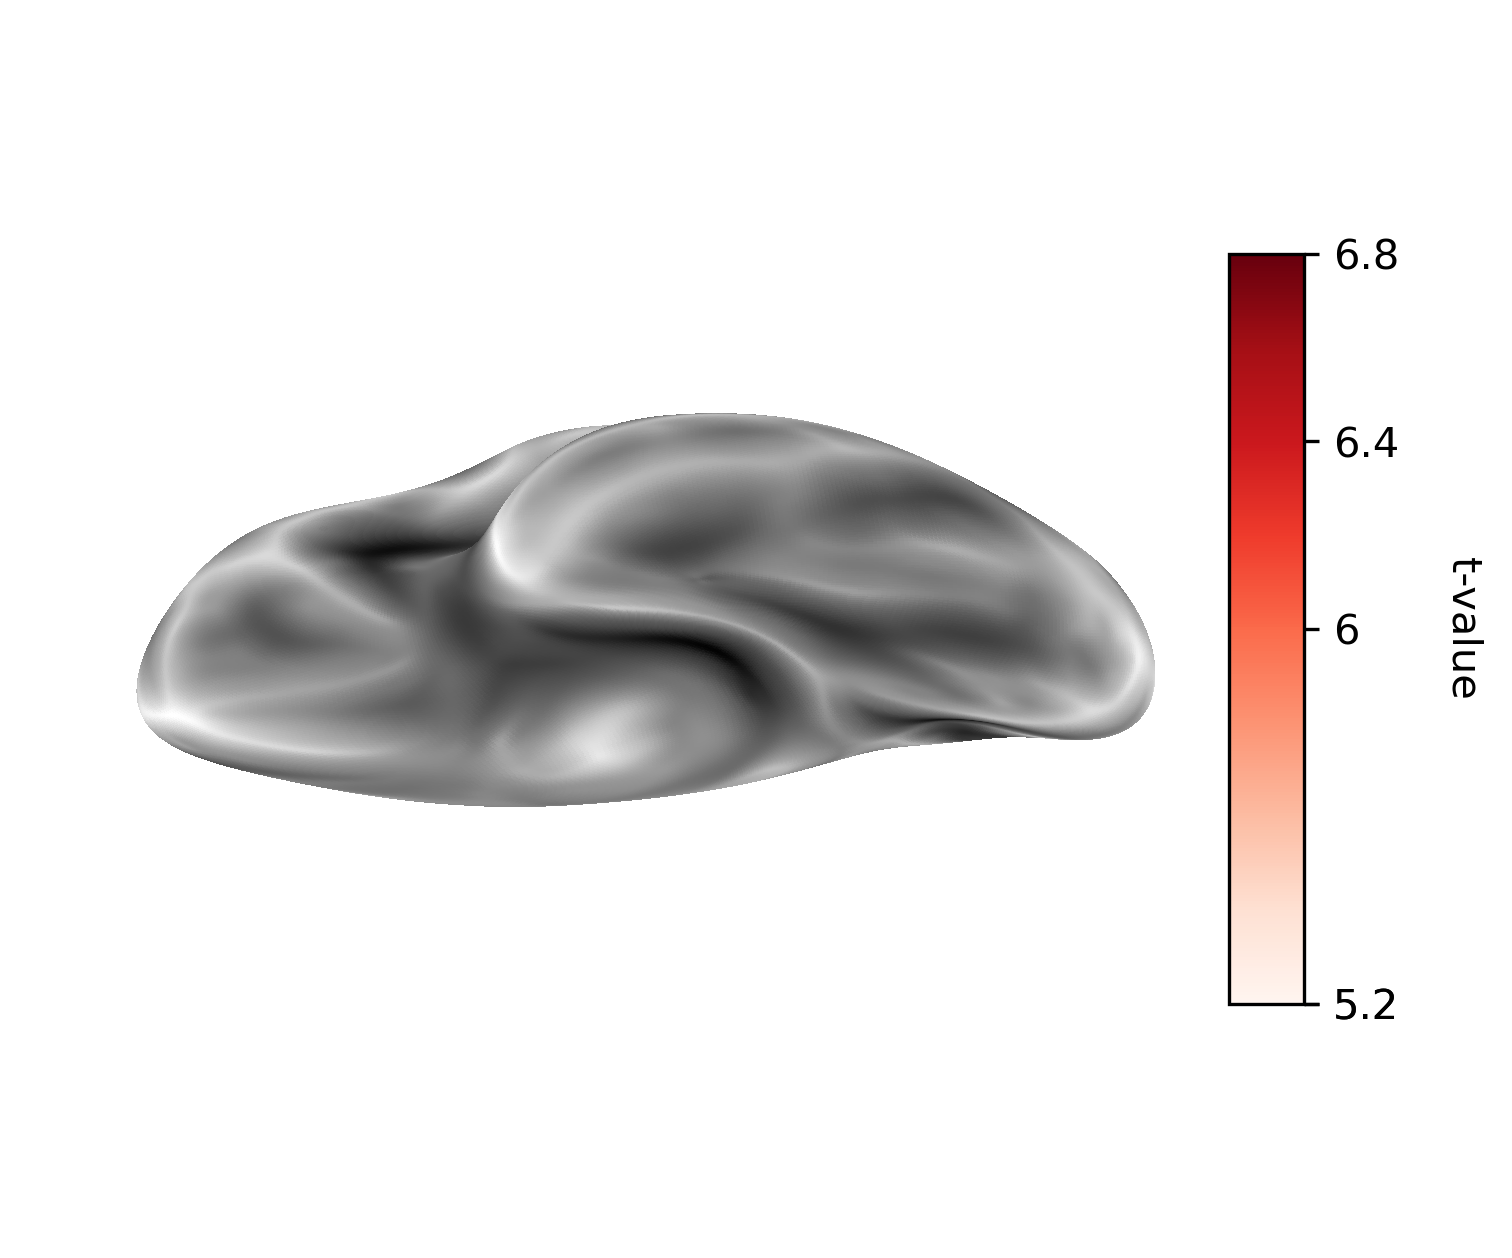
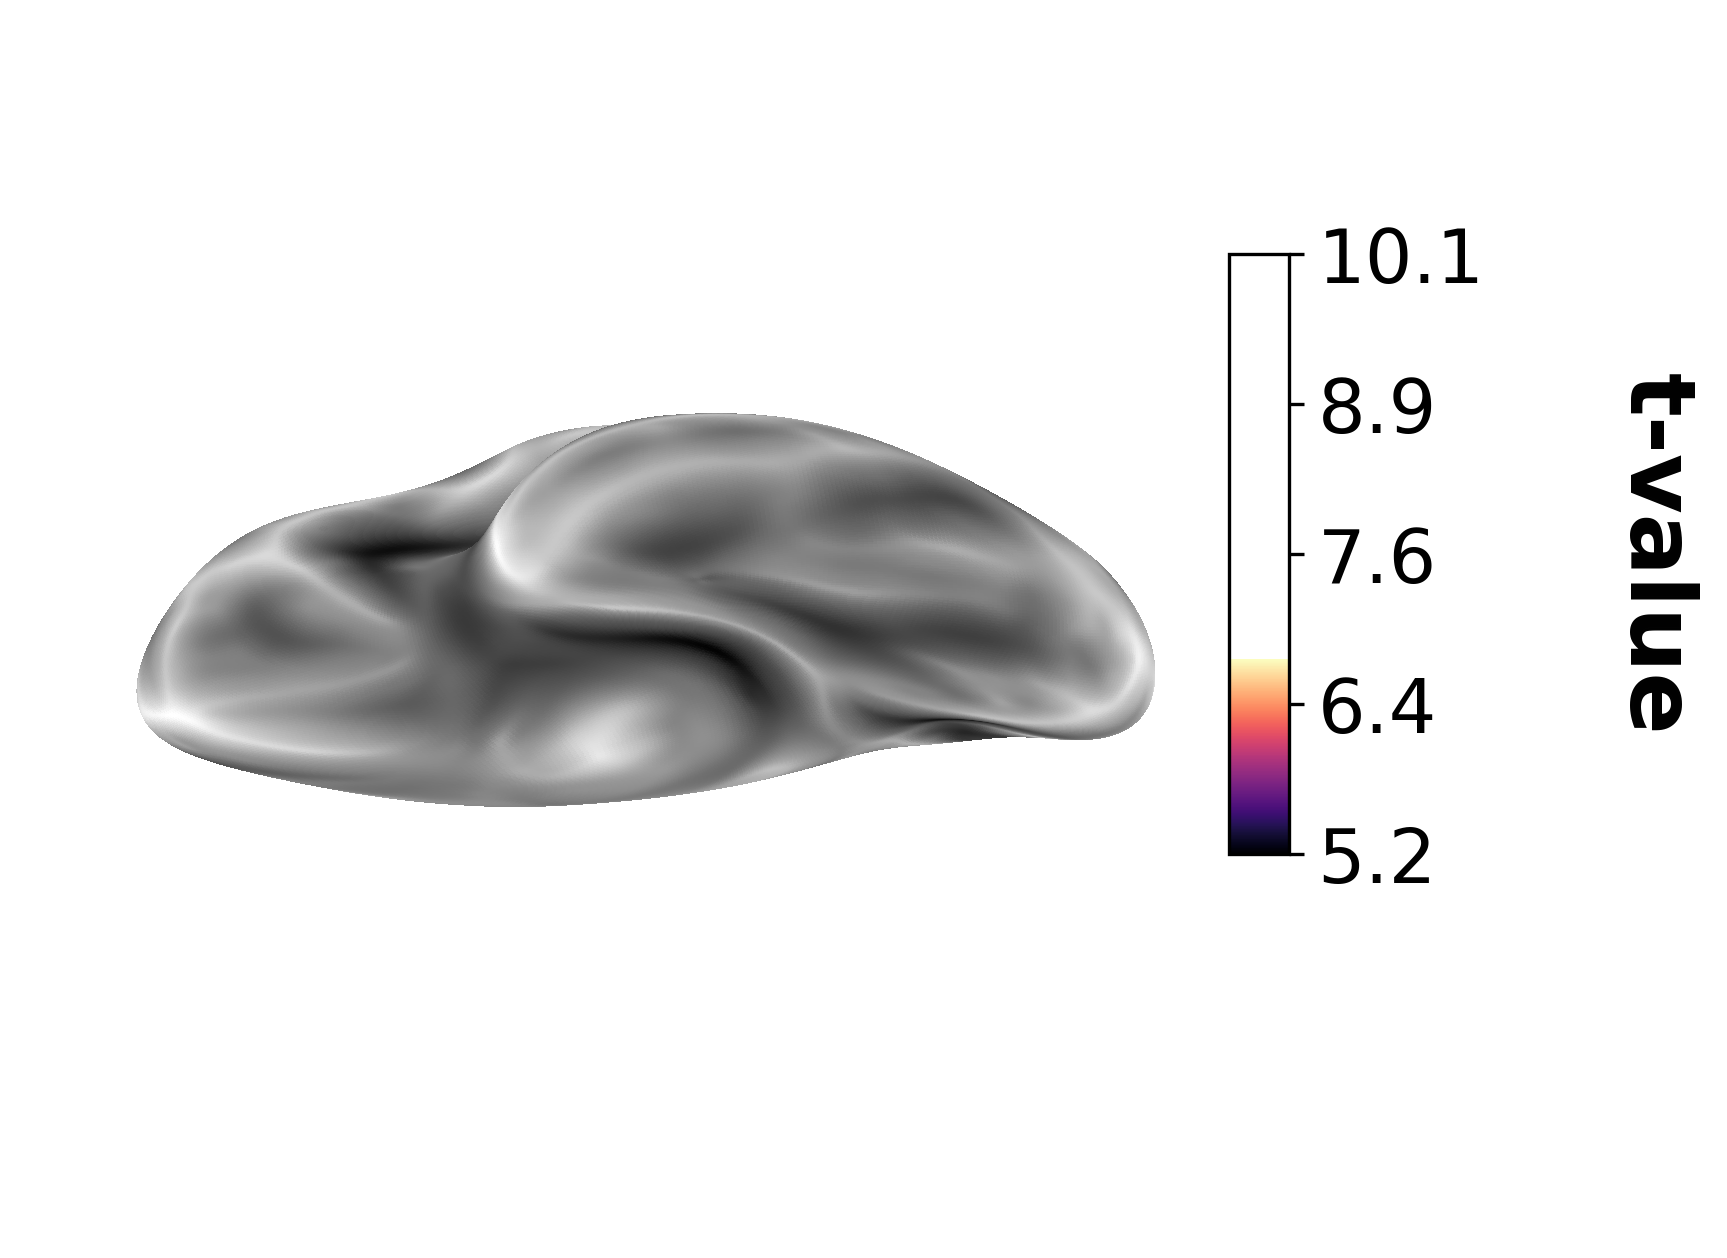
Improve colorbar formatting in plot_surfaces
- Set evenly spaced colorbar ticks using actual data range (threshold to max abs)
  with 1-decimal formatted labels so spacing reads correctly.
- Increase colorbar tick label font size (14 -> 18).
- Increase colorbar axis label font size (16 -> 22) and labelpad (20 -> 30).
- Enforce 270-deg rotation on the 't-value' label with va='bottom' so it reads
  top-to-bottom instead of bottom-to-top.
- Fix typo in default --condition_two (drop stray '_surface' suffix) so the
  default contrast file is found.
- Regenerate default surface/volume plots.

Changed region(s): [[0.0622, 0.186, 0.9947, 0.806]]

diff --git a/code/plot_surfaces.py b/code/plot_surfaces.py
@@ -73,18 +73,24 @@ class PlotSurfaces:
 
             # Add colorbar label
             cbar = fig.axes[-1]  # Get the colorbar axis
-            cbar.set_ylabel('t-value', rotation=270, labelpad=20, fontsize=16, fontweight='bold')
+            cbar.set_ylabel('t-value', rotation=270, labelpad=30, fontsize=22, fontweight='bold',
+                            va='bottom')
+            cbar.yaxis.label.set_rotation(270)
 
             # Adjust colorbar height to make it less tall
             pos = cbar.get_position()
             cbar.set_position([pos.x0, pos.y0 + pos.height * 0.2, pos.width, pos.height * 0.8])
 
-            # Set ticks to be equally distributed
-            vmin, vmax = cbar.get_ylim()
-            cbar.set_yticks(np.linspace(vmin, vmax, 5))
-            
+            # Set ticks to be equally distributed based on the actual data range
+            surf_values = np.concatenate([np.asarray(v).ravel() for v in img.data.parts.values()])
+            vmax = float(np.nanmax(np.abs(surf_values)))
+            vmin = self.threshold if self.threshold is not None else float(np.nanmin(surf_values))
+            ticks = np.linspace(vmin, vmax, 5)
+            cbar.set_yticks(ticks)
+            cbar.set_yticklabels([f'{t:.1f}' for t in ticks])
+
             # Make tick labels bigger
-            cbar.tick_params(axis='y', labelsize=14)
+            cbar.tick_params(axis='y', labelsize=18)
 
             # Make background transparent
             fig.patch.set_alpha(0)
@@ -109,9 +115,9 @@ def main():
                         default='/orcd/data/ngk/001/users/emaliem/sts_communication')
     parser.add_argument('--condition_one', '-c1', type=str, default='face_third+face_first+com_phy+com_ind',
                          help='The first condition for the second level analysis')
-    parser.add_argument('--condition_two', '-c2', type=str, default='face_noncom+phy+ind_surface',
+    parser.add_argument('--condition_two', '-c2', type=str, default='face_noncom+phy+ind',
                          help='The second condition for the second level analysis')
-    parser.add_argument('--palette_name', type=str, default='Reds',
+    parser.add_argument('--palette_name', type=str, default='magma',
                          help='Seaborn color palette name')
     parser.add_argument('--task', '-t', type=str, default='communicate',
                          help='Task label for the analysis')
